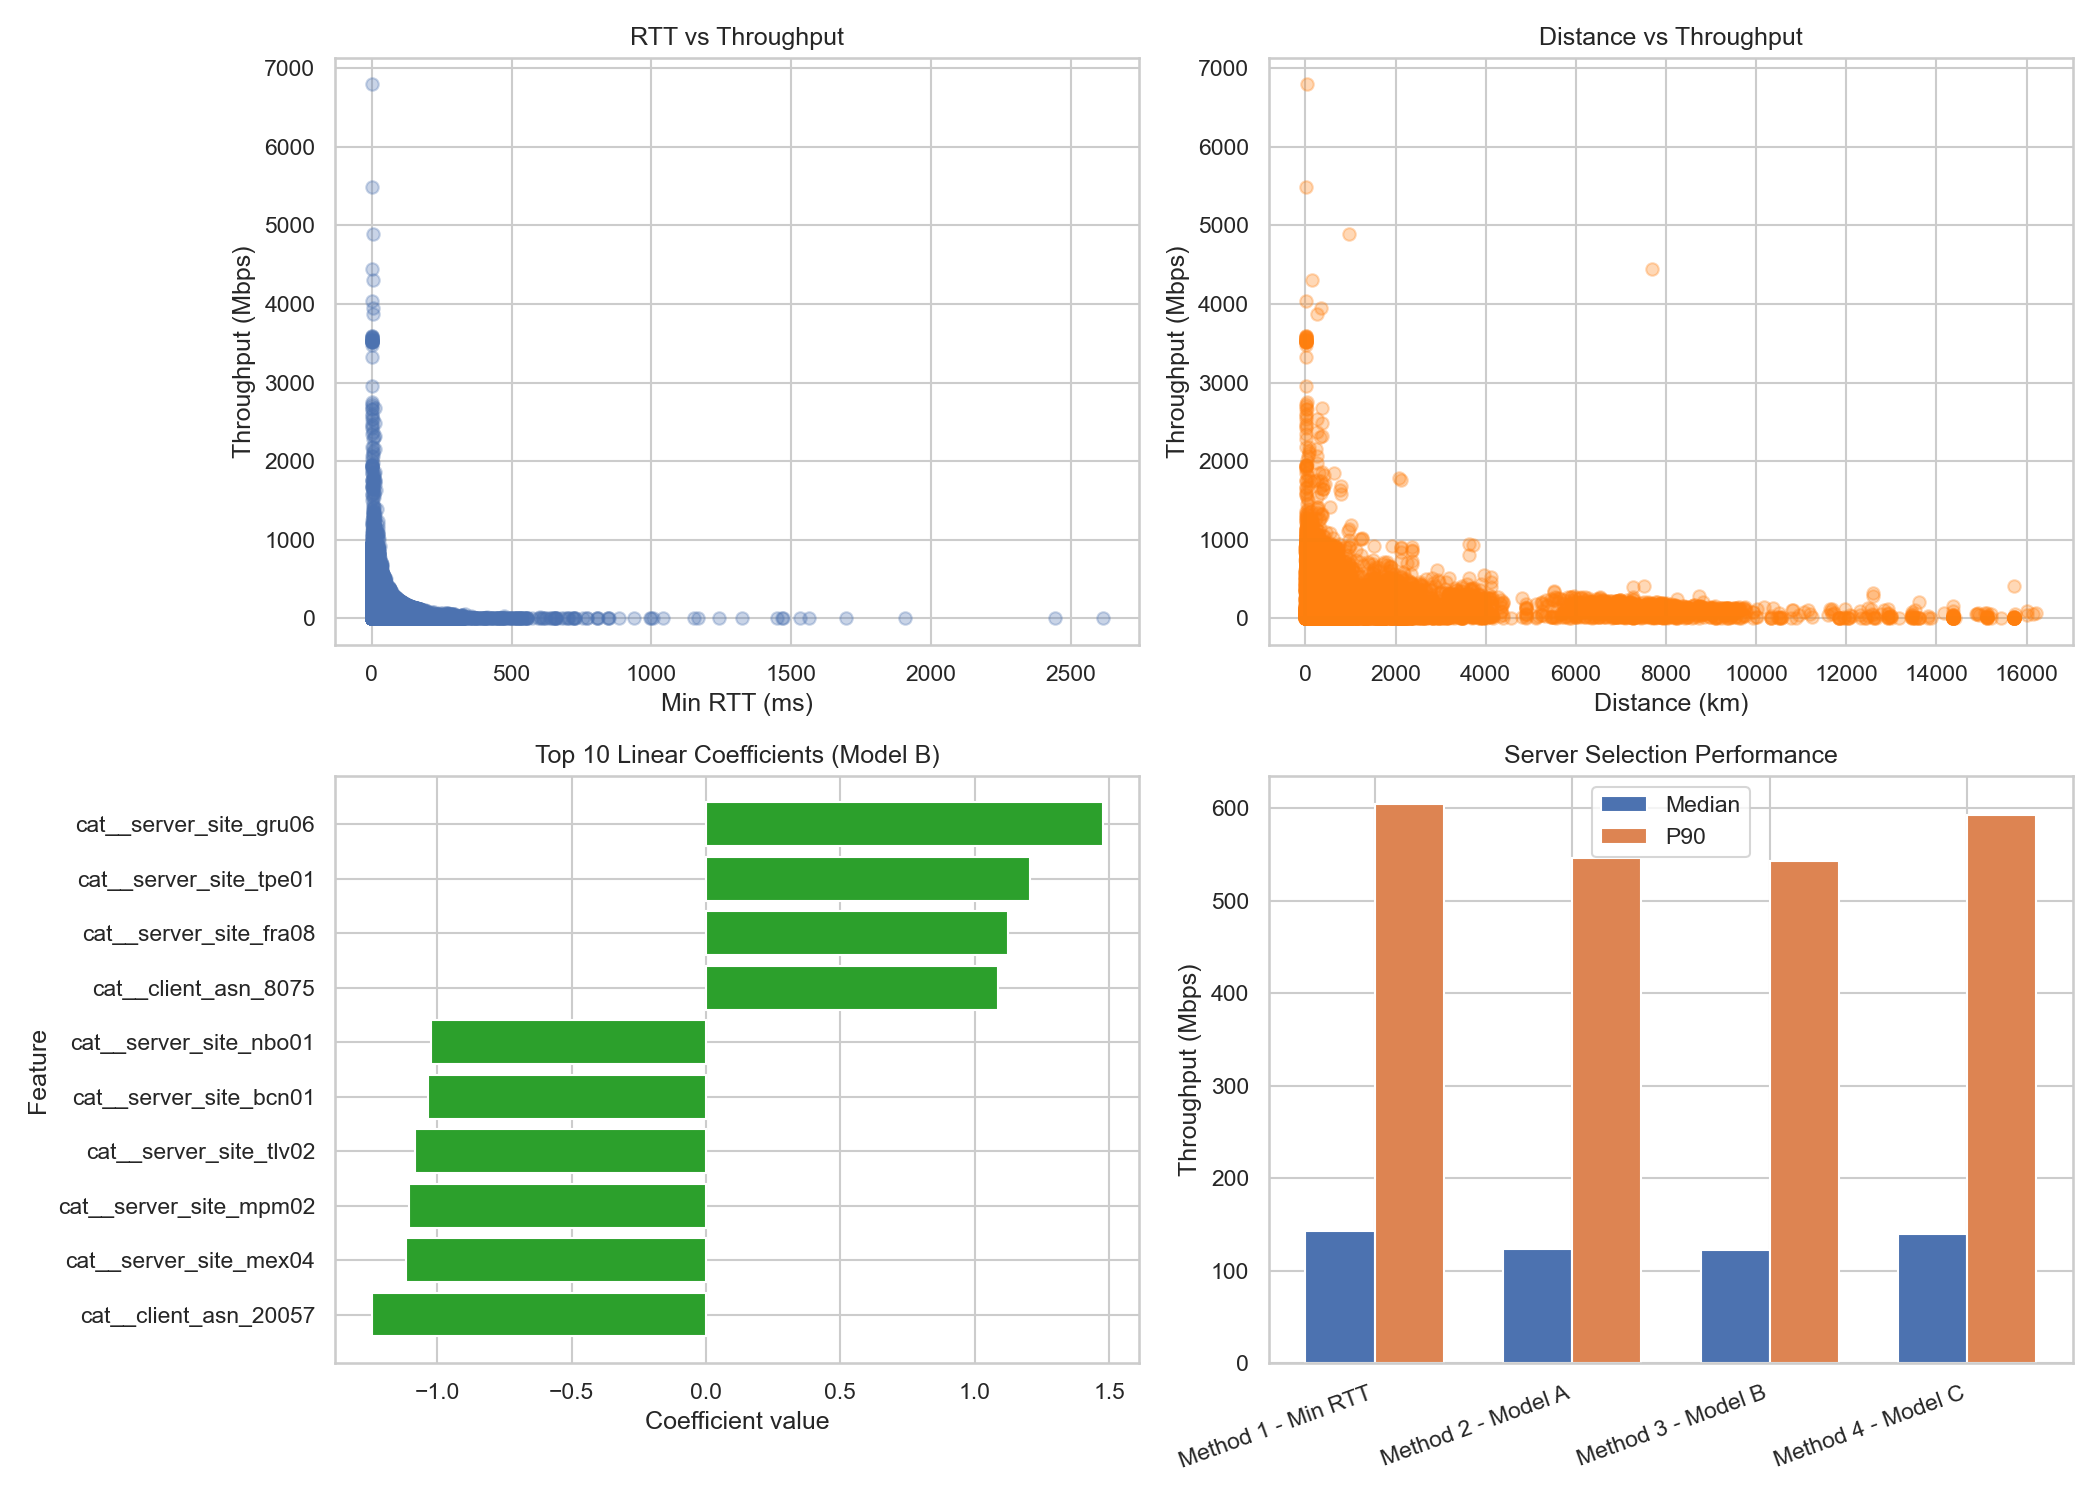
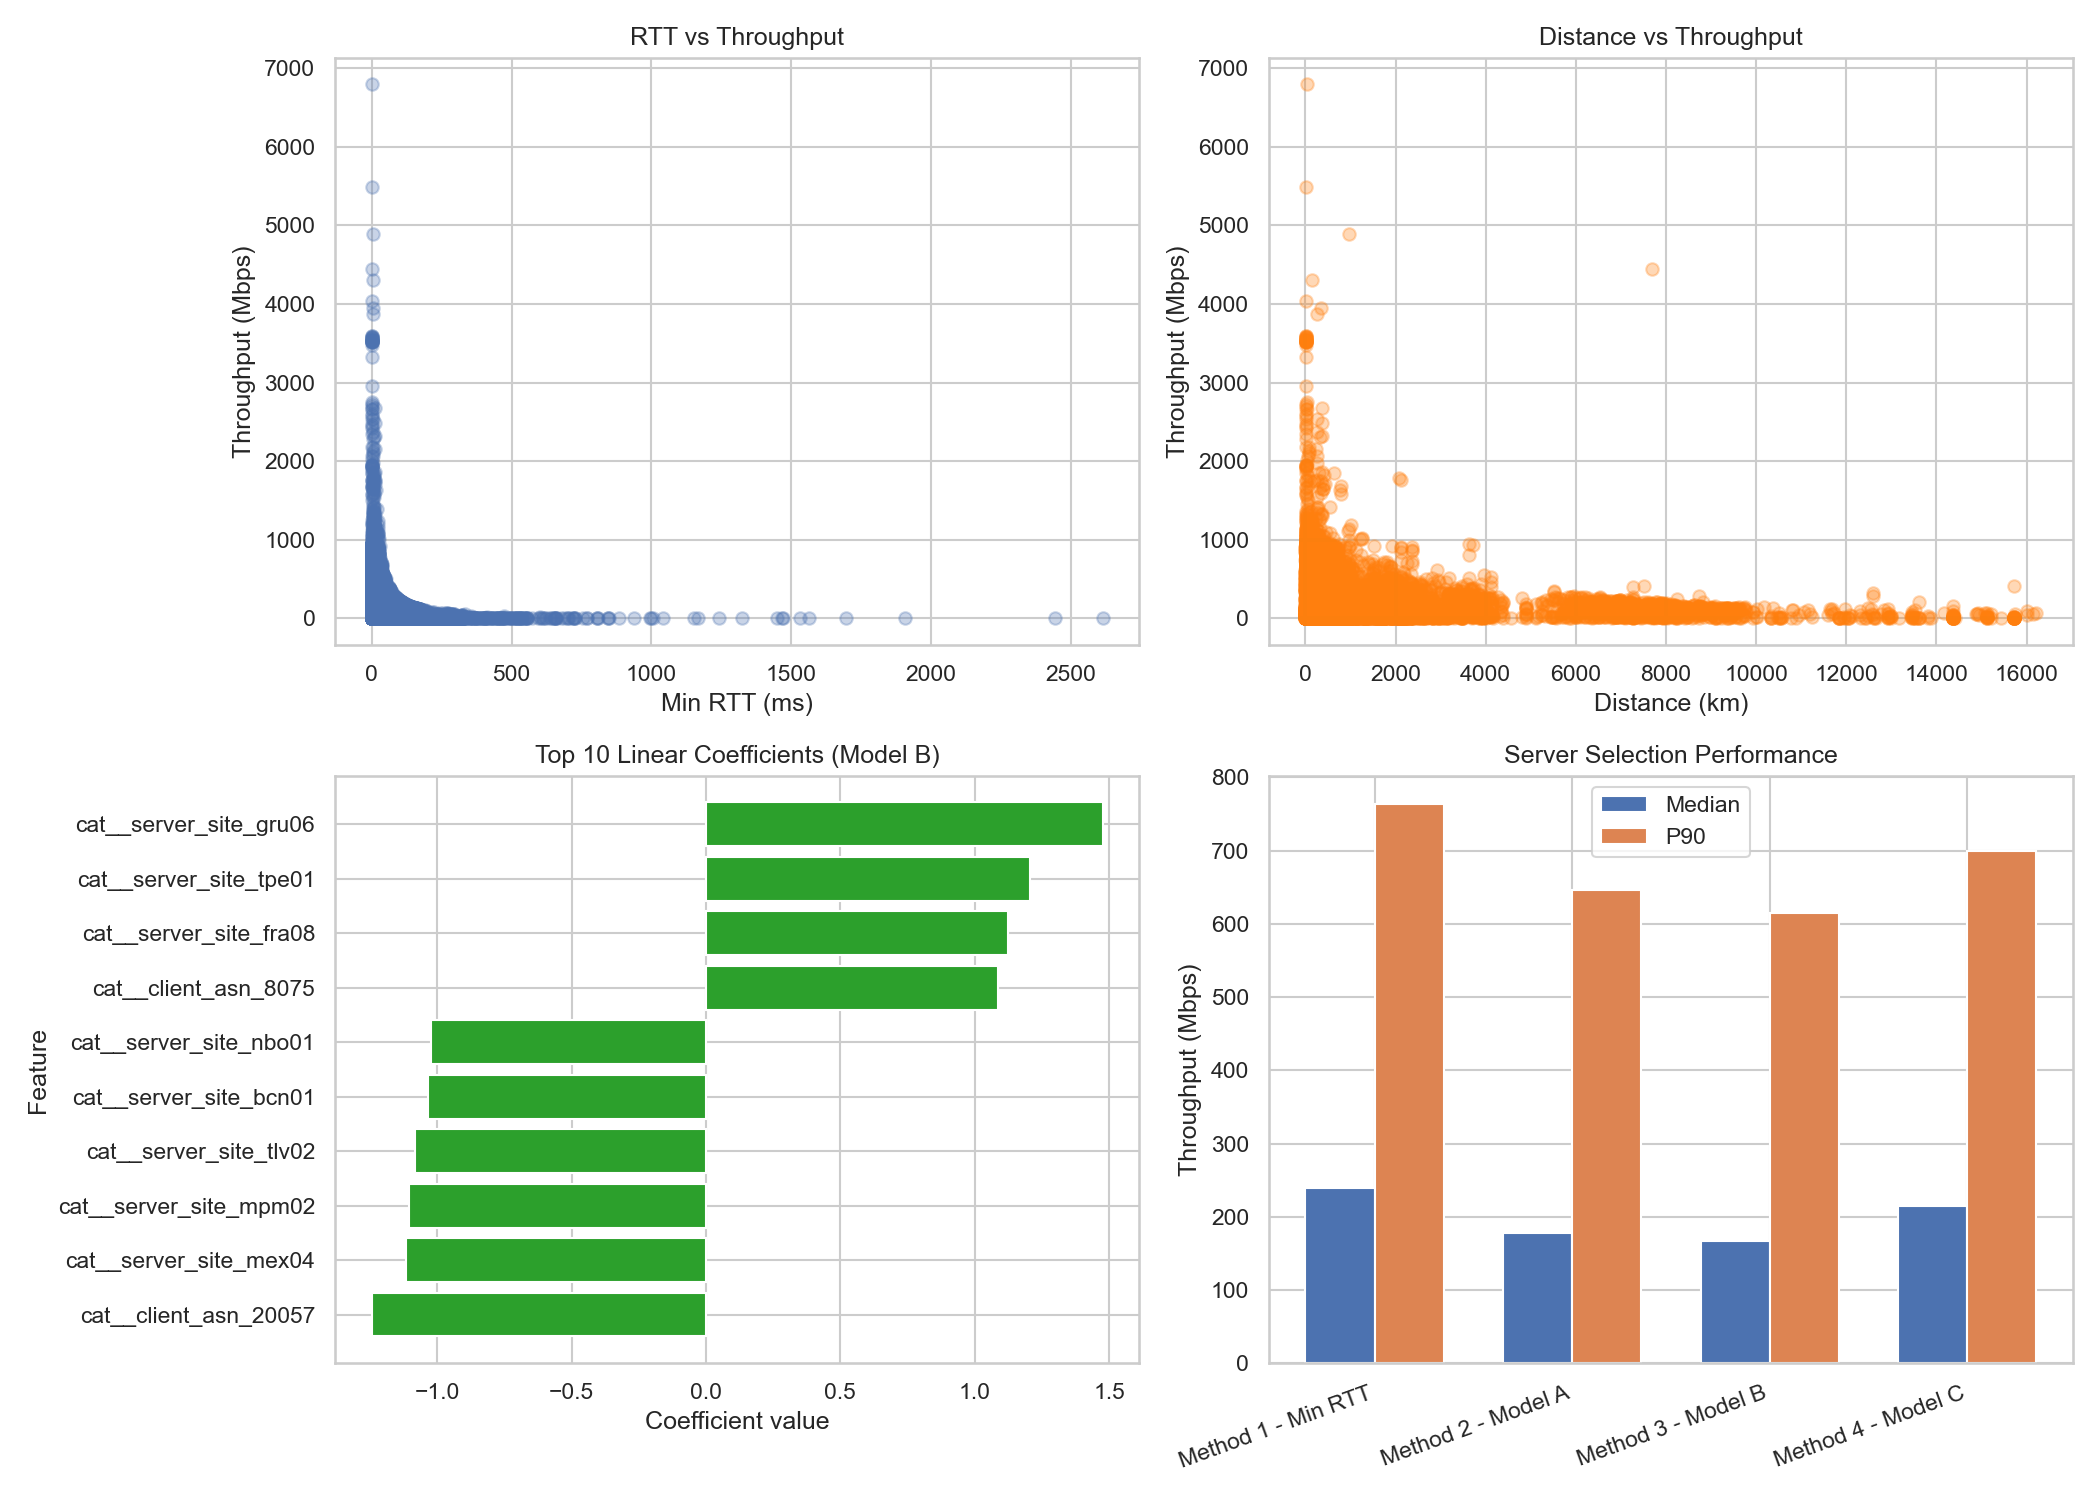
Update simulation script to skip clients with fewer than 4 candidates and replace experiments summary image.

diff --git a/Data-Analysis/rtt_only_r2.py b/Data-Analysis/rtt_only_r2.py
@@ -1,0 +1,58 @@
+"""Calculate R² for RTT-only model."""
+
+import pandas as pd
+import numpy as np
+from sklearn.linear_model import LinearRegression
+from sklearn.model_selection import train_test_split
+from sklearn.metrics import r2_score, mean_squared_error, mean_absolute_error
+
+# Load data
+df = pd.read_csv('./mlab_ndt_us_30days_20251111_004612.csv')
+
+# Feature engineering
+df['inv_rtt'] = 1000.0 / df['min_rtt_ms']
+df['log_download'] = np.log10(df['download_mbps'])
+
+# Remove invalid values
+df = df[np.isfinite(df['inv_rtt']) & np.isfinite(df['log_download'])]
+
+# Only use inv_rtt as feature
+X = df[['inv_rtt']].values
+y = df['log_download'].values
+
+X_train, X_test, y_train, y_test = train_test_split(X, y, test_size=0.2, random_state=42)
+
+# Train model
+model = LinearRegression()
+model.fit(X_train, y_train)
+
+# Evaluate
+y_pred_train = model.predict(X_train)
+y_pred_test = model.predict(X_test)
+
+r2_train = r2_score(y_train, y_pred_train)
+r2_test = r2_score(y_test, y_pred_test)
+rmse_test = np.sqrt(mean_squared_error(y_test, y_pred_test))
+mae_test = mean_absolute_error(y_test, y_pred_test)
+
+print('='*70)
+print('只使用 RTT (inverse RTT) 的线性回归结果:')
+print('='*70)
+print(f'特征: inv_rtt (1000 / MinRTT)')
+print(f'样本数 (训练): {len(X_train)}')
+print(f'样本数 (测试): {len(X_test)}')
+print(f'')
+print(f'R² (训练集): {r2_train:.6f}')
+print(f'R² (测试集):  {r2_test:.6f}')
+print(f'RMSE (测试集): {rmse_test:.6f}')
+print(f'MAE (测试集):  {mae_test:.6f}')
+print(f'')
+print(f'模型系数: {model.coef_[0]:.6f}')
+print(f'截距: {model.intercept_:.6f}')
+print('='*70)
+
+# Compare with Model A (which uses inv_rtt + packet_loss_rate)
+print('\n对比 Model A (inv_rtt + packet_loss_rate): R² = 0.066140')
+print(f'只用 RTT 的 R²: {r2_test:.6f}')
+print(f'差异: {(0.066140 - r2_test):.6f}')
+

diff --git a/Data-Analysis/experiments/simulation.py b/Data-Analysis/experiments/simulation.py
@@ -34,6 +34,8 @@ def simulate_selection(
     }
 
     for _, group in df.groupby(["client_lat", "client_lon", "client_asn"]):
+        if len(group) <= 4:  # Skip clients with less than 4 candidate server
+            continue
         group = group.sort_values("min_rtt_ms")
         methods["Method 1 - Min RTT"].append(group.iloc[0]["download_mbps"])
         methods["Method 2 - Model A"].append(select_with_model(group, simple_artifact))
